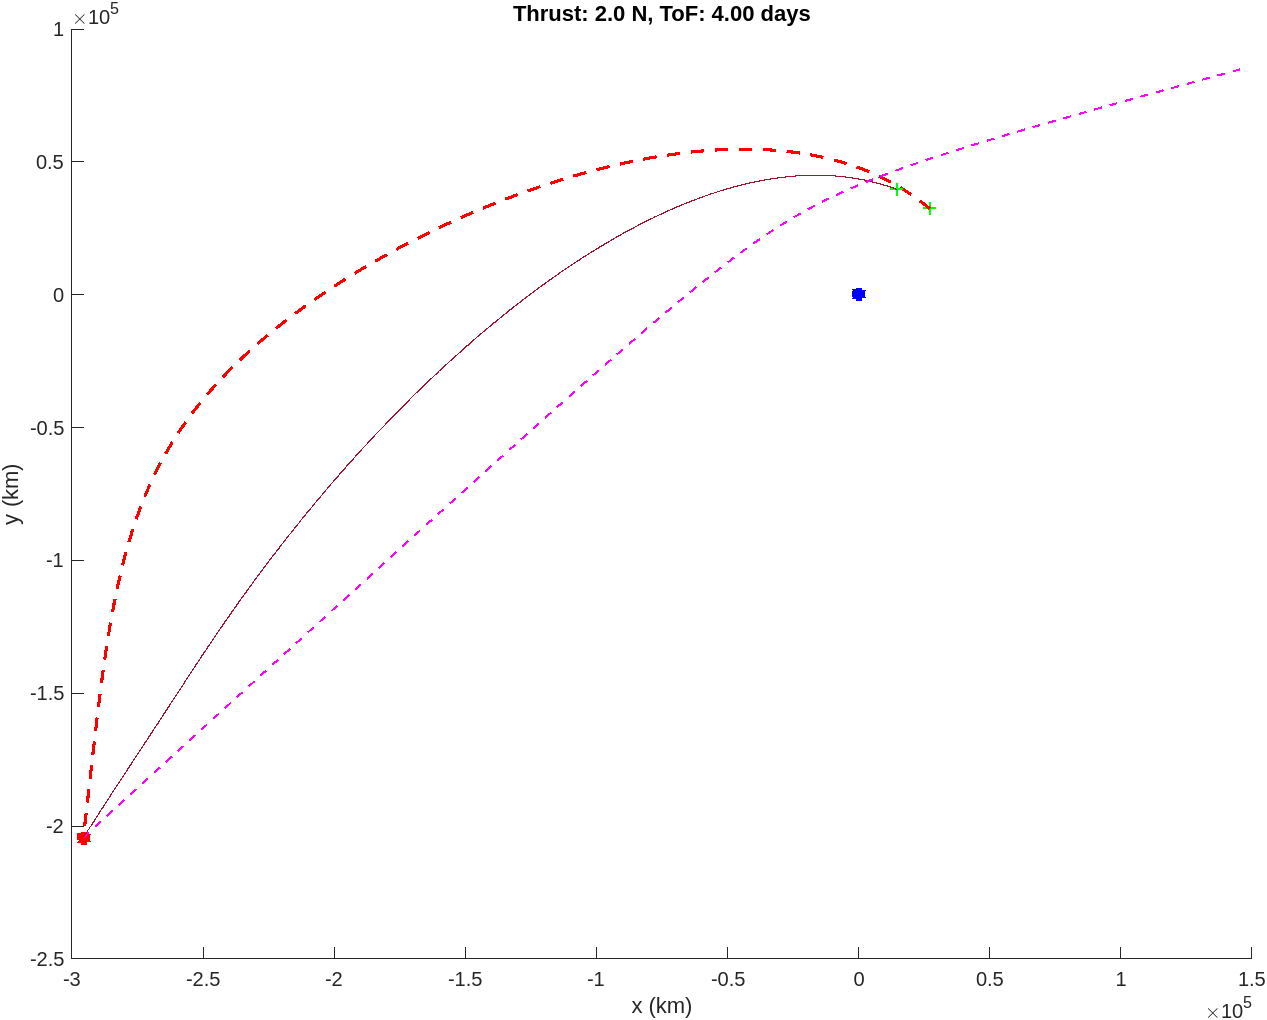
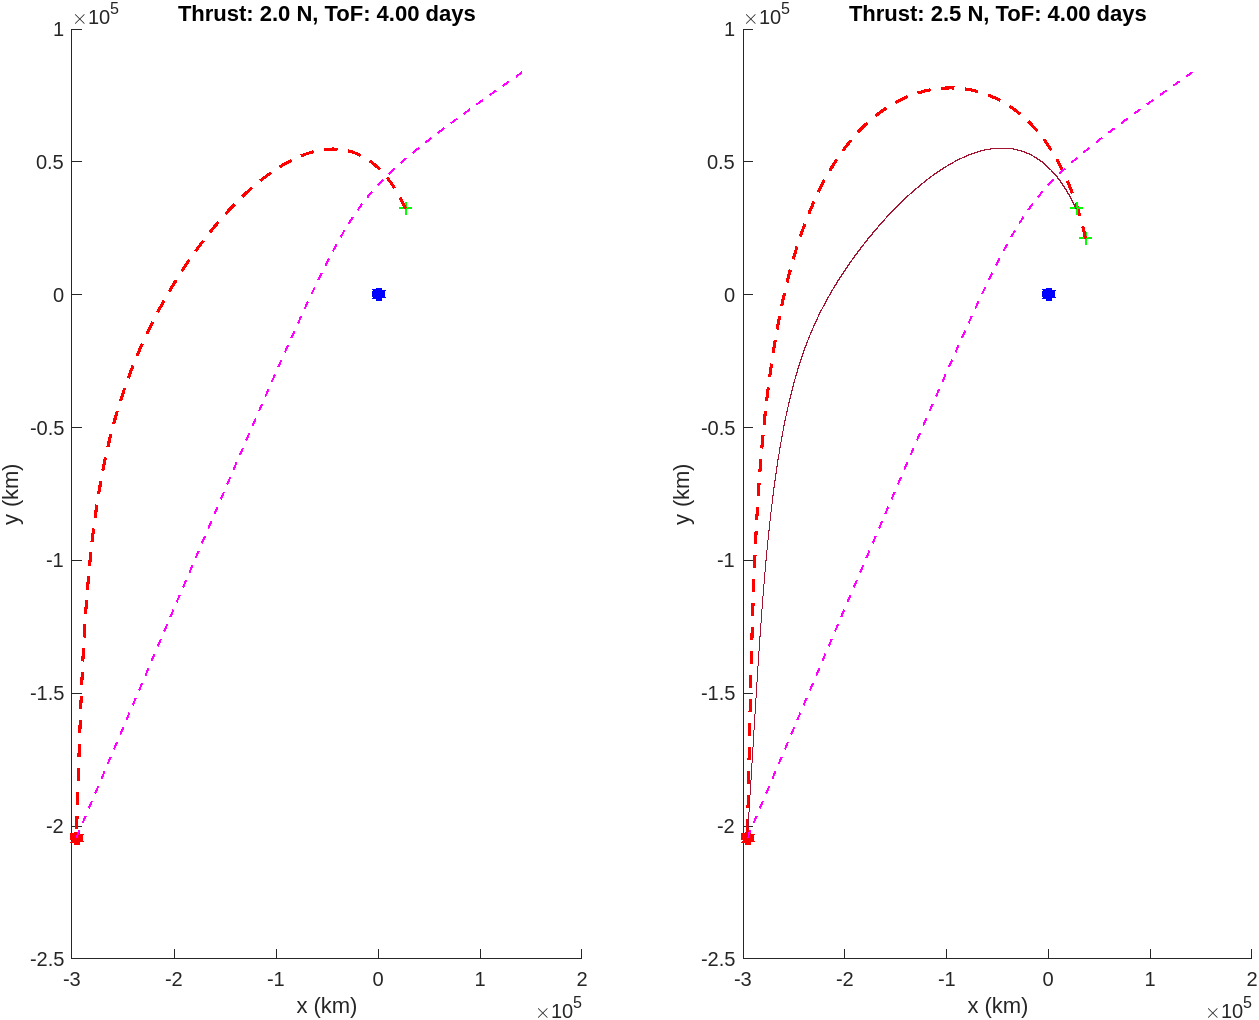
Course Project AE508: changed the cost function to match the performance index formulation in the course project proposal; re-run the scriptps to updates the results and generate new plots

diff --git a/tradeoff_studies.m b/tradeoff_studies.m
@@ -24,11 +24,15 @@ options = optimoptions('fsolve','Display','iter','MaxFunEvals',1e3,...
     'UseParallel',false);
 
 filename = "reports/tradeoff_studies_results.txt";
-ar = (0:10:360)';
-times = flipud([4 5 6 7 8 9 10]');
-thrusts = flipud([0.05 0.1 0.25 0.5 1.0 1.5 2]');
+% ar = (0:10:360)';
+% times = flipud([5 6 7 8 9 10]');
+% thrusts = flipud([0.05 0.1 0.25 0.5 1.0 1.5 2]');
 
-figure(1); hold on;
+ar = (0:10:360)';
+times = flipud([17 18 19 20]');
+thrusts = flipud([0.05 0.1 0.25]');
+% thrusts = flipud([0.1 0.25 0.5 1.0 1.5 2 2.5]');
+
 for timeidx = 1:length(times)
     time_of_flight = times(timeidx);
     for thrustidx = 1:length(thrusts)
@@ -72,9 +76,7 @@ for timeidx = 1:length(times)
                     rho, ...
                     state_values.mu);
                 
-                dv = sqrt( X(end,7)^2*norm(X(end,4:6))^2 ...
-                    + state_values.m_a^2*norm(state_values.vf)^2 ...
-                    - 2*X(end,7)*state_values.m_a*dot(X(end,4:6),state_values.vf));
+                dv = X(end,7)*norm(X(end,4:6)' - state_values.vf);
         
                 M = [dv, state_values.tf, true_anomaly, thrust_magnitude, x0', xf', p0'];
         
@@ -83,7 +85,6 @@ for timeidx = 1:length(times)
                 else
                     writematrix(M,filename);
                 end
-                plot3(X(:,1),X(:,2),X(:,3));
             else
                 M = [NaN, state_values.tf, true_anomaly, thrust_magnitude, x0', xf', p0'];
                 if exist(filename, "file")
@@ -95,7 +96,7 @@ for timeidx = 1:length(times)
         end
     end
 end
-hold off;
+
 %{
 figure; hold on; grid on;
 plot(ar, dv,'b*','LineWidth', 1.5);

diff --git a/max_momentum.m b/max_momentum.m
@@ -11,11 +11,12 @@ function err = max_momentum(lam0guess,t0,tf,x0,xf,T,c,rho,opts_ode,m0,m_a,mu)
     %}
         % The negative sign is intentional since we want to maximize
         % the momentum transfer
-        denom = -sqrt(m^2*dot(v,v) + ma^2*dot(va,va) - 2*m*ma*dot(v,va));
-        xdot = m*(m*v(1) - ma*va(1))/denom;
-        ydot = m*(m*v(2) - ma*va(2))/denom;
-        zdot = m*(m*v(3) - ma*va(3))/denom;
-        mdot = (m*dot(v,v) - ma*dot(va,v))/denom;
+        dv = v - va;
+        denom = -norm(dv);
+        xdot = m*(v(1) - va(1))/denom;
+        ydot = m*(v(2) - va(2))/denom;
+        zdot = m*(v(3) - va(3))/denom;
+        mdot = denom;
         PhiDot = [xdot, ydot, zdot, mdot];
     end
 end
